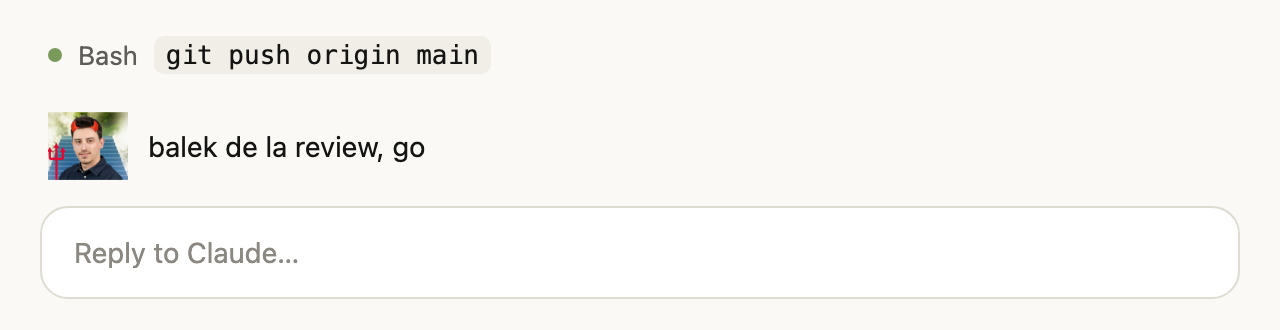
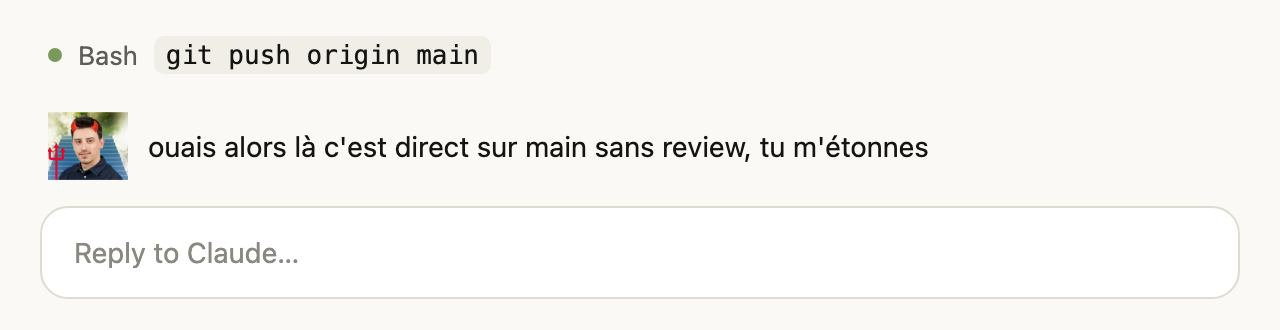
Aperçus avec de vraies phrases de Haiku ; plus de notifications

Changed region(s): [[0.0938, 0.4242, 0.75, 0.4848]]

diff --git a/hooks/register.tsx b/hooks/register.tsx
@@ -44,14 +44,13 @@ let moodSeq = 0
 // L'appel au modèle en cours, coupé dès qu'une nouvelle réaction arrive.
 let inFlight: AbortController | undefined
 
-type Reaction = { face: Face; kind: LineKind; toast?: boolean; context?: string; prompt?: string }
+type Reaction = { face: Face; kind: LineKind; context?: string; prompt?: string }
 
-async function show($: EngineInterface, face: Face, line: string, toast = false, isThinking = false) {
+async function show($: EngineInterface, face: Face, line: string, isThinking = false) {
   lastFace = face
   moodSeq += 1
   try {
     await update($, mood, () => ({ face, line, isThinking }))
-    if (toast) $.ui.toast(`:${face}: ${line}`)
   } catch {
     // Guiks boude, mais l'outil continue.
   }
@@ -60,24 +59,23 @@ async function show($: EngineInterface, face: Face, line: string, toast = false,
 // Sans modèle, Guiks dit une réplique toute faite. Avec, il « réfléchit » le temps que le modèle écrive la sienne.
 async function react($: EngineInterface, brain: Brain, reaction: Reaction) {
   const canned = pick(reaction.kind)
-  const toast = reaction.toast === true
 
   if (!brain.isEnabled) {
-    await show($, reaction.face, canned, toast)
+    await show($, reaction.face, canned)
     return
   }
-  await ask($, brain, reaction.face, reaction.prompt ?? situationPrompt(reaction.kind, canned, reaction.context), toast, canned)
+  await ask($, brain, reaction.face, reaction.prompt ?? situationPrompt(reaction.kind, canned, reaction.context), canned)
 }
 
 // Affiche « guiks réfléchit », puis programme l'appel au modèle hors du hook, pour que Claude ne l'attende jamais.
 // La réplique toute faite ne sert qu'en secours, si le modèle ne répond pas.
-async function ask($: EngineInterface, brain: Brain, face: Face, prompt: string, toast: boolean, fallback: string) {
-  await show($, face, pick('pondering'), false, true)
+async function ask($: EngineInterface, brain: Brain, face: Face, prompt: string, fallback: string) {
+  await show($, face, pick('pondering'), true)
   inFlight?.abort()
   const controller = new AbortController()
   inFlight = controller
   const seq = moodSeq
-  $.clock.after(0, () => void replyLater($, brain, prompt, seq, toast, fallback, controller.signal))
+  $.clock.after(0, () => void replyLater($, brain, prompt, seq, fallback, controller.signal))
 }
 
 // Remplace la réplique toute faite par l'avis du modèle, si rien d'autre ne s'est passé entre-temps.
@@ -86,13 +84,12 @@ async function replyLater(
   brain: Brain,
   prompt: string,
   seq: number,
-  toast: boolean,
   fallback: string,
   signal: AbortSignal,
 ) {
   const line = await askGuiks($, brain, prompt, signal)
   if (moodSeq === seq) {
-    await show($, lastFace, line ?? fallback, toast)
+    await show($, lastFace, line ?? fallback)
   }
 }
 
@@ -116,10 +113,10 @@ export const register: Register = (on, options) => {
       const context = `Son message :\n${head(e.text, 600)}`
 
       if (URGENT.test(e.text)) {
-        await react($, brain, { face: 'serious-guiks', kind: 'rushed', toast: true, context })
+        await react($, brain, { face: 'serious-guiks', kind: 'rushed', context })
         hasReactedToPrompt = true
       } else if (SWEARING.test(e.text)) {
-        await react($, brain, { face: 'smirk-guiks', kind: 'swearing', toast: true, context })
+        await react($, brain, { face: 'smirk-guiks', kind: 'swearing', context })
         hasReactedToPrompt = true
       } else if (e.text.length > WALL_OF_TEXT) {
         await react($, brain, { face: 'jpp-guiks', kind: 'wallOfText', context })
@@ -127,7 +124,7 @@ export const register: Register = (on, options) => {
       } else if (isOffHours(now) && offHoursDay !== today) {
         offHoursDay = today
         const when = `On est ${now.toLocaleDateString('fr-FR', { weekday: 'long' })}, il est ${now.getHours()} h.`
-        await react($, brain, { face: 'jpp-guiks-2', kind: 'offHours', toast: true, context: when })
+        await react($, brain, { face: 'jpp-guiks-2', kind: 'offHours', context: when })
         hasReactedToPrompt = true
       }
     }
@@ -155,11 +152,11 @@ export const register: Register = (on, options) => {
     const target = describeTool(e as unknown as Readonly<Record<string, unknown>>)
 
     if (SHIPPING.test(command) && isFridayAfternoon(new Date(await $.clock.now()))) {
-      await react($, brain, { face: 'evil-guiks', kind: 'friday', toast: true, context: target })
+      await react($, brain, { face: 'evil-guiks', kind: 'friday', context: target })
     } else if (PUSH_MAIN.test(command)) {
-      await react($, brain, { face: 'evil-guiks', kind: 'pushMain', toast: true, context: target })
+      await react($, brain, { face: 'evil-guiks', kind: 'pushMain', context: target })
     } else if (RISKY.test(command)) {
-      await react($, brain, { face: 'evil-guiks', kind: 'risky', toast: true, context: target })
+      await react($, brain, { face: 'evil-guiks', kind: 'risky', context: target })
     } else if (LONG.test(command)) {
       await react($, brain, { face: 'gamer-guiks', kind: 'building', context: target })
     } else if (READING.has(String(e.tool))) {
@@ -173,27 +170,27 @@ export const register: Register = (on, options) => {
     const output = ran.text ?? ''
 
     if (ran.deny !== undefined || (ran.isError && REFUSED.test(output))) {
-      await react($, brain, { face: 'guiks-troll', kind: 'refused', toast: true, context: target })
+      await react($, brain, { face: 'guiks-troll', kind: 'refused', context: target })
     } else if (MERGING.test(command) && /\bCONFLICT\b/.test(output)) {
       failures += 1
       turnFailures += 1
       const context = `${target}\n\nSortie :\n${tail(output, 1000)}`
-      await react($, brain, { face: 'jpp-guiks-2', kind: 'conflict', toast: true, context })
+      await react($, brain, { face: 'jpp-guiks-2', kind: 'conflict', context })
     } else if (ran.isError) {
       failures += 1
       turnFailures += 1
       const prompt = failurePrompt(command === '' ? target : command, output)
       if (failures >= 2) {
-        await react($, brain, { face: 'jpp-guiks-2', kind: 'failedAgain', toast: true, prompt })
+        await react($, brain, { face: 'jpp-guiks-2', kind: 'failedAgain', prompt })
       } else {
-        await react($, brain, { face: 'jpp-guiks', kind: 'failed', toast: true, prompt })
+        await react($, brain, { face: 'jpp-guiks', kind: 'failed', prompt })
       }
     } else {
       failures = 0
       if (COMMIT.test(command)) {
         await react($, brain, { face: 'smirk-guiks', kind: 'committed', context: target })
       } else if (LONG.test(command) && TESTS.test(command)) {
-        await react($, brain, { face: 'smirk-guiks', kind: 'testsPassed', toast: true, context: target })
+        await react($, brain, { face: 'smirk-guiks', kind: 'testsPassed', context: target })
       }
     }
 
@@ -214,7 +211,7 @@ export const register: Register = (on, options) => {
           await react($, brain, { face: 'smirk-guiks', kind: 'done', prompt })
         } else if (brain.isEnabled) {
           // Guiks garde sa tête d'échec, mais donne quand même son avis sur le tour.
-          await ask($, brain, lastFace, prompt, false, pick('turnFailed'))
+          await ask($, brain, lastFace, prompt, pick('turnFailed'))
         }
       }
     }

diff --git a/tests/brain.test.tsx b/tests/brain.test.tsx
@@ -26,7 +26,6 @@ const engine = (on: On) => {
       ? { isError: true, result: 'exit 1', text: 'NullPointerException at Foo.kt:42' }
       : { result: {}, text: 'ok' },
   )
-  on('ui.toast', () => ({ value: undefined }))
 }
 
 test('une commande en échec : le modèle explique, façon Guiks', async ($, on) => {

diff --git a/README.md b/README.md
@@ -4,24 +4,25 @@ Un mod Claude Code : une tête de Guiks, consultant technique et fonctionnel, s'
 
 ## Aperçus
 
-Rendus du bandeau au-dessus du prompt (maquettes, pas des captures de l'app). Quand c'est une commande qui fait réagir Guiks, elle apparaît au-dessus ; quand c'est ton message, il apparaît dans le champ de saisie.
+Rendus du bandeau au-dessus du prompt (maquettes, pas des captures de l'app). La tête change tout de suite et Guiks « réfléchit » en grisé ; une ou deux secondes plus tard, sa phrase s'affiche. Les phrases ci-dessous sont de vraies réponses de Haiku avec la consigne du mod. Quand c'est une commande qui fait réagir Guiks, elle apparaît au-dessus ; quand c'est ton message, il apparaît dans le champ de saisie.
 
 | | |
 |---|---|
-| Claude lit du code<br>![Claude lit du code](docs/lecture.png) | Build en cours<br>![Build en cours](docs/build.png) |
-| Une commande échoue<br>![Une commande échoue](docs/echec.png) | Deuxième échec de suite<br>![Deuxième échec de suite](docs/deuxieme-echec.png) |
-| Des tests passent<br>![Des tests passent](docs/tests-verts.png) | Commande risquée<br>![Commande risquée](docs/commande-risquee.png) |
-| Permission refusée<br>![Permission refusée](docs/permission-refusee.png) | Ton message est urgent<br>![Ton message est urgent](docs/urgent.png) |
-| Ton message contient un juron<br>![Ton message contient un juron](docs/juron.png) | Ton message est un pavé<br>![Ton message est un pavé](docs/pave.png) |
-| Message du soir<br>![Message du soir](docs/soir.png) | Push un vendredi après-midi<br>![Push un vendredi après-midi](docs/vendredi.png) |
-| Push vers main<br>![Push vers main](docs/push-main.png) | Commit réussi<br>![Commit réussi](docs/commit.png) |
-| Conflit de fusion<br>![Conflit de fusion](docs/conflit.png) |  |
+| En attendant le modèle<br>![En attendant le modèle](docs/attente.png) | Claude lit du code<br>![Claude lit du code](docs/lecture.png) |
+| Build en cours<br>![Build en cours](docs/build.png) | Une commande échoue<br>![Une commande échoue](docs/echec.png) |
+| Deuxième échec de suite<br>![Deuxième échec de suite](docs/deuxieme-echec.png) | Des tests passent<br>![Des tests passent](docs/tests-verts.png) |
+| Commande risquée<br>![Commande risquée](docs/commande-risquee.png) | Permission refusée<br>![Permission refusée](docs/permission-refusee.png) |
+| Ton message est urgent<br>![Ton message est urgent](docs/urgent.png) | Ton message contient un juron<br>![Ton message contient un juron](docs/juron.png) |
+| Ton message est un pavé<br>![Ton message est un pavé](docs/pave.png) | Message du soir<br>![Message du soir](docs/soir.png) |
+| Push un vendredi après-midi<br>![Push un vendredi après-midi](docs/vendredi.png) | Push vers main<br>![Push vers main](docs/push-main.png) |
+| Commit réussi<br>![Commit réussi](docs/commit.png) | Conflit de fusion<br>![Conflit de fusion](docs/conflit.png) |
 
 ## Situations et répliques
 
-| Situation | Tête | Répliques |
+Avec le modèle activé (par défaut), Guiks écrit une phrase pour chaque situation ci-dessous, à partir de ce qui se passe vraiment (voir « L'avis de Guiks par un modèle »). Pendant qu'il écrit, le bandeau affiche en grisé une phrase d'attente : « guiks réfléchit (ouais ça arrive parfois) », « guiks cherche une vanne », « guiks tape un message, puis l'efface », « guiks est en réu, il réagit après », « guiks prépare sa meilleure punchline », « guiks réfléchit, chais pas combien de temps » ou « guiks lève les yeux au ciel ». Les répliques de la dernière colonne ne servent que si le modèle est coupé (option `llm`) ou ne répond pas.
+
+| Situation | Tête | Répliques de secours |
 |---|:---:|---|
-| En attendant le modèle (en grisé) | la tête de la situation | « guiks réfléchit (ouais ça arrive parfois) » · « guiks cherche une vanne » · « guiks tape un message, puis l’efface » · « guiks est en réu, il réagit après » · « guiks prépare sa meilleure punchline » · « guiks réfléchit, chais pas combien de temps » · « guiks lève les yeux au ciel » |
 | Au repos | <img src="docs/faces/serious-guiks.png" width="40" alt=":serious-guiks:" title=":serious-guiks:"> | « j’observe, faites pas chier » |
 | Début d'un tour | <img src="docs/faces/serious-guiks.png" width="40" alt=":serious-guiks:" title=":serious-guiks:"> | « bon, je regarde » · « attends, je réfléchis » · « chais pas, je regarde » · « genre je fais quoi là ? » |
 | Claude lit du code | <img src="docs/faces/serious-guiks.png" width="40" alt=":serious-guiks:" title=":serious-guiks:"> | « je lis, foutez-moi la paix » · « je lis, faites pas chier putain » · « attends je lis le truc » · « ça fait quoi ce truc ? » · « du coup, ça fait quoi ? » |
@@ -44,7 +45,7 @@ Rendus du bandeau au-dessus du prompt (maquettes, pas des captures de l'app). Qu
 | Commit réussi | <img src="docs/faces/smirk-guiks.png" width="40" alt=":smirk-guiks:" title=":smirk-guiks:"> | « ah bah voilà » · « commit, mais bon » · « ouais c’est pas mal » |
 | Conflit de fusion | <img src="docs/faces/jpp-guiks-2.png" width="40" alt=":jpp-guiks-2:" title=":jpp-guiks-2:"> | « quelle merde » · « nan mais bordel, des conflits » · « ça me casse les couilles ces conflits » |
 
-Les moments forts déclenchent aussi une notification. Chaque situation tire une réplique au hasard parmi plusieurs, dans le phrasé de Guiks (voir `hooks/lines.ts`). Ces répliques toutes faites servent quand le modèle est coupé (option `llm`), ou en secours s'il ne répond pas. Avec le modèle, Guiks écrit une phrase pour la situation précise (voir plus bas).
+Chaque situation tire une réplique au hasard parmi plusieurs, dans le phrasé de Guiks (voir `hooks/lines.ts`). Ces répliques toutes faites servent quand le modèle est coupé (option `llm`), ou en secours s'il ne répond pas. Avec le modèle, Guiks écrit une phrase pour la situation précise (voir plus bas).
 
 ## L'avis de Guiks par un modèle
 
@@ -54,7 +55,7 @@ Chaque réaction de Guiks passe par un petit modèle (Haiku par défaut), qui é
 - **quand une commande échoue**, il lit la fin de l'erreur et dit ce qui cloche (« nan mais bordel, ton null traîne ligne 42 ») ;
 - **à la fin de chaque tour**, il lit ta demande et un extrait de la réponse de Claude. En consultant technique et fonctionnel, il juge le code, mais aussi si ça répond au besoin et au périmètre (« genre le métier t'a demandé ça ? j'en doute pas mdr »).
 
-La tête change tout de suite. Pendant que le modèle écrit (en général une ou deux secondes), le bandeau affiche en grisé une phrase d'attente, comme « guiks réfléchit (ouais ça arrive parfois) » ou « guiks tape un message, puis l'efface ». Puis la phrase du modèle s'affiche. Claude n'attend jamais le modèle. Quand une nouvelle réaction arrive, l'appel précédent est coupé, et sa réponse, si elle arrive quand même, est jetée. Si le modèle ne répond pas, une réplique toute faite prend la place de la phrase d'attente. Les notifications attendent la phrase finale.
+La tête change tout de suite. Pendant que le modèle écrit (en général une ou deux secondes), le bandeau affiche en grisé une phrase d'attente, comme « guiks réfléchit (ouais ça arrive parfois) » ou « guiks tape un message, puis l'efface ». Puis la phrase du modèle s'affiche. Claude n'attend jamais le modèle. Quand une nouvelle réaction arrive, l'appel précédent est coupé, et sa réponse, si elle arrive quand même, est jetée. Si le modèle ne répond pas, une réplique toute faite prend la place de la phrase d'attente.
 
 Pendant un tour actif, ça fait un appel par réaction : souvent 10 à 30 par tour, dont beaucoup coupés avant la fin. Chaque appel passe par le même compte que ta session Claude Code et envoie la situation (commande, fichier, ton message, extrait d'erreur ou de réponse). Les options du plugin règlent tout ça :
 
@@ -132,7 +133,6 @@ flowchart TB
   W --> S[("Humeur<br/>$.state : tête + réplique")]
   B -- "une ou deux secondes plus tard,<br/>si rien de plus récent" --> S
   B -. "pas de réponse :<br/>réplique toute faite, lines.ts" .-> S
-  B -- "moments forts" --> N["Notification<br/>$.ui.toast"]
   S --> R["Bandeau au-dessus du prompt<br/>ui.render AbovePrompt"]
   R --> D["Desktop : SVG avec le PNG"]
   R --> X["Terminal : élément Image"]
